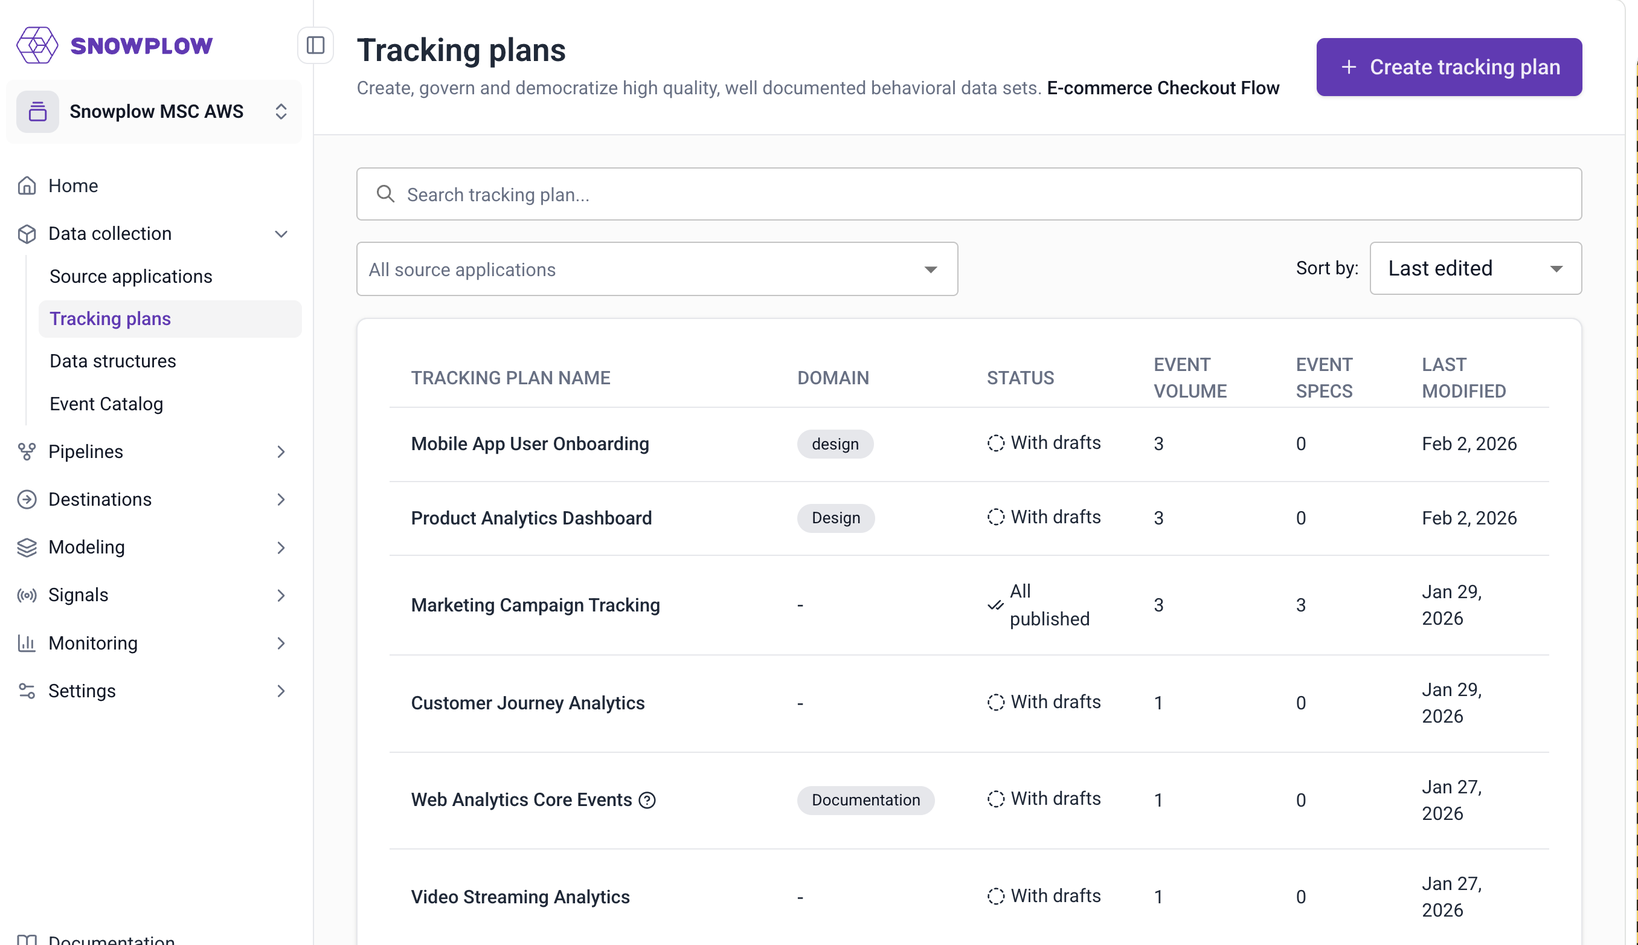
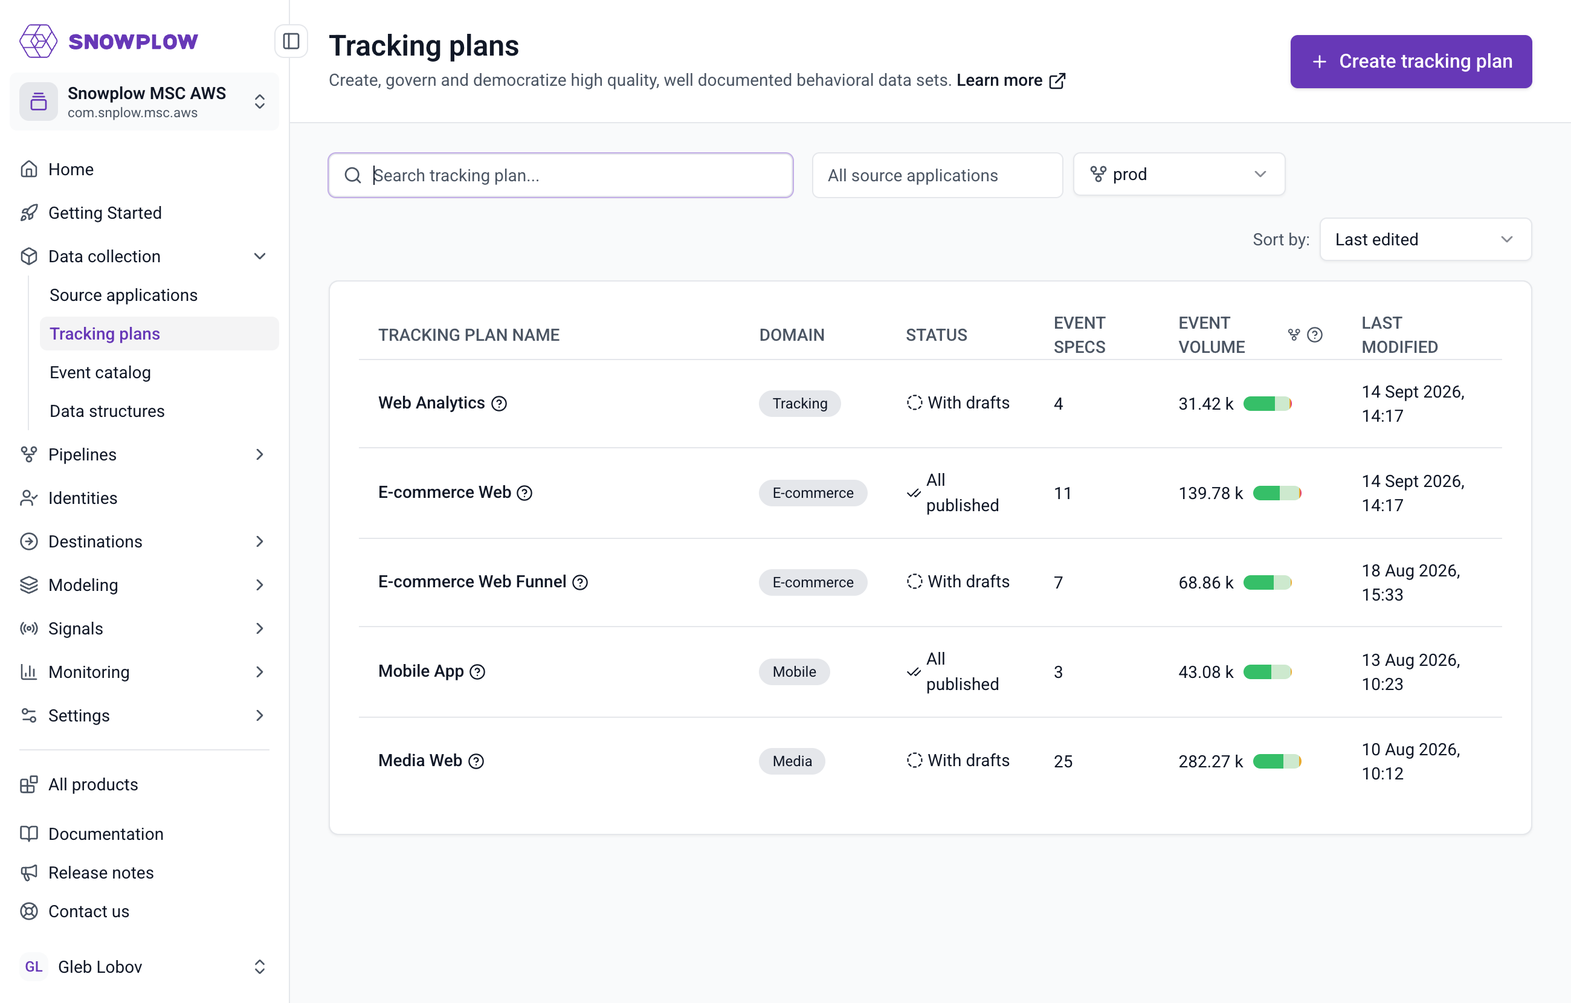
[DPS-XXXX] Event spec validation metrics

diff --git a/docs/event-studio/tracking-plans/data-quality/index.md b/docs/event-studio/tracking-plans/data-quality/index.md
@@ -1,0 +1,63 @@
+---
+title: "Monitor tracking plan data quality in Console"
+sidebar_label: "Data quality"
+sidebar_position: 4
+description: "See how many events matched each tracking plan and event specification over the last 30 days, and how many of them were valid, inferred, had violations, or failed."
+keywords: ["tracking plan data quality", "event specification validation", "event volume", "events with violations", "failed events", "tracking summary", "Console"]
+date: "2026-09-17"
+---
+
+Console shows the results of [event specification inference](/docs/event-studio/tracking-plans/event-specification-inference/index.md) and [event specification validation](/docs/event-studio/tracking-plans/event-specification-validation/index.md) next to your tracking plans and event specifications. Every event volume figure is split into valid events, inferred events, events with violations, and failed events. You can see how well an implementation matches its specification without querying your warehouse.
+
+Metrics cover the last 30 days for one pipeline at a time. Every view that shows them has a pipeline selector, which defaults to your production pipeline.
+
+## Understand the event categories
+
+Console sorts every event that the pipeline associated with a published event specification into one of four categories:
+
+| Category               | Meaning                                                                                                                                                                                                                                                                                                        |
+| ---------------------- | -------------------------------------------------------------------------------------------------------------------------------------------------------------------------------------------------------------------------------------------------------------------------------------------------------------- |
+| Valid events           | Events that arrived with an `event_specification` entity and passed validation                                                                                                                                                                                                                                 |
+| Inferred events        | Events that the pipeline matched to the specification by inference. Inferred events are valid events too, but the pipeline doesn't validate them                                                                                                                                                              |
+| Events with violations | Events that arrived with an `event_specification` entity, failed validation, and were loaded to your warehouse with an `event_specification_validation` entity attached                                                                                                                                                                                       |
+| Failed events          | Events attributed to the specification that ended up in [failed events](/docs/fundamentals/failed-events/index.md). This includes events with schema violations, and events that failed validation in a tracking plan that [sends them to failed events](/docs/event-studio/tracking-plans/event-specification-validation/index.md#send-invalid-events-to-failed-events) |
+
+Only events that arrive with an `event_specification` entity go through validation, so only they can end up as valid events or events with violations. Tracking code generated with [Snowtype](/docs/event-studio/implement-tracking/index.md) attaches this entity for you. Events without it can only be matched by inference.
+
+The total volume is the sum of the four categories. Where Console shows a bar next to a volume, each segment is one category. Hover over the bar to see the count for each category.
+
+Failed events counts come from your [data quality dashboard](/docs/monitoring/index.md), not from the Console API. They are available when the selected pipeline loads failed events into your warehouse, the data quality dashboard is connected to that pipeline, and you have permission to view it. Otherwise the failed events category shows N/A, volumes exclude failed events, and a warning icon next to the volume explains why.
+
+## View data quality for a tracking plan
+
+Open a tracking plan to see its **Data quality** panel. The chart shows the total number of events across all event specifications in the plan, split by category, with the share and count of each. Click **View details** to open the data quality dashboard for the selected pipeline, or the failed events page when the dashboard isn't connected.
+
+![E-commerce Web tracking plan page with a Data quality panel showing a donut chart of 139.78k total events on the prod pipeline over the last 30 days, split into valid, inferred, violations, and failed events, above an event specifications table with a volume bar per specification](images/tracking-plan-data-quality.png)
+
+The event specifications table shows the same breakdown per event specification in its **Volume** column. The **Last seen** column shows the most recent event for the specification, whether it was valid or failed.
+
+The **Data quality rules** button in the page header decides whether events that fail validation count as events with violations or as failed events. See [Send invalid events to failed events](/docs/event-studio/tracking-plans/event-specification-validation/index.md#send-invalid-events-to-failed-events).
+
+## Compare tracking plans and event specifications
+
+The **Tracking plans** list shows the volume breakdown for every tracking plan in its **Event volume** column. The [Event Catalog](/docs/event-studio/event-catalog/index.md) shows it for every event specification across all tracking plans in its **Volume** column. Both views have a pipeline selector next to the filters.
+
+![Tracking plans list with a pipeline selector set to prod and an Event volume column showing a count and a colored bar for each tracking plan](images/tracking-plans-list.png)
+
+![Event Catalog filtered to published event specifications and sorted by tracking plan, with a pipeline selector and a Volume column showing a count and a colored bar for each event specification](images/event-catalog-volume.png)
+
+## Track specification versions and application IDs
+
+Each event specification has a **Tracking summary** tab that breaks the metrics down by specification version and application ID. Use it to check that a new version has reached all applications, or that an application still sends an old version.
+
+![Tracking summary tab of the Add to cart event specification listing versions 1 and 2, the app IDs that sent each version with green, yellow, and gray status badges, the last seen date, and a volume bar](images/event-specification-tracking-summary.png)
+
+Each row is one version of the specification that the pipeline saw events for in the last 30 days. The **App ID** column lists the application IDs that sent those events, with a status for each:
+
+| Status         | Meaning                                                                                                         |
+| -------------- | --------------------------------------------------------------------------------------------------------------- |
+| Green check    | The app ID belongs to a source application of this version and sent events                                      |
+| Yellow warning | The app ID sent events, but doesn't belong to any source application of this version                            |
+| Gray minus     | The app ID belongs to a source application of this version, but didn't send events in the last 30 days          |
+
+A yellow status usually means that an application tracks the event without being listed in the specification. Add its [source application](/docs/event-studio/source-applications/index.md) to the specification, or remove the tracking from that application.

diff --git a/docs/event-studio/tracking-plans/create-and-manage/index.md b/docs/event-studio/tracking-plans/create-and-manage/index.md
@@ -9,7 +9,7 @@ keywords: ["tracking plan UI", "Console UI", "event specifications UI", "source 
 
 To create a new tracking plan, navigate to the "Tracking plans" section from the navigation bar and click the "Create tracking plan" button.
 
-![Tracking plans list page showing six tracking plans with their domain, status, event volume, event spec count, and last modified date, with a "+ Create tracking plan" button in the top right](images/create-tracking-plan-v2.png)
+![Console with the Data collection section of the sidebar expanded and Tracking plans selected, showing five tracking plans with their domain, status, event spec count, event volume with a colored bar, and last modified date, with a "+ Create tracking plan" button in the top right](images/create-tracking-plan-v2.png)
 
 A modal will appear on the page, giving you the possibility to quickly create a tracking plan by using one of the existing templates or create one from scratch.
 
@@ -33,17 +33,18 @@ When clicking on an event specification row, a page will allow you to enter addi
 
 The breadcrumb navigation allows you to quickly navigate to the tracking plan overview as well as to the list of tracking plans. Alternatively, you can access the list of available tracking plans by clicking `Tracking plans` prominently displayed in the navigation bar on the left.
 
-In the image below, you can see an example of a tracking plan. It not only provides an overview of all the event specifications but also allows you to access three important pieces of functionality.
+In the image below, you can see an example of a tracking plan. It provides an overview of all the event specifications and of the [data quality](/docs/event-studio/tracking-plans/data-quality/index.md) of the plan over the last 30 days, and gives access to the following functionality:
 
 - **Share**; allow other members of your organization to access the tracking plan
 - **Subscribe**; receive notifications of any changes in the tracking plan
+- **Data quality rules**; choose whether events that fail [validation](/docs/event-studio/tracking-plans/event-specification-validation/index.md#send-invalid-events-to-failed-events) are loaded to your warehouse marked as violations, or sent to failed events
 - **Implement tracking**; automatically generate the code for your tracking plan to be included in your application (to learn more visit [Code Generation - automatically generate code for Snowplow tracking SDKs](/docs/event-studio/implement-tracking/index.md))
 
 :::note
 Sharing and subscribing is only available for users registered in Snowplow Console.
 :::
 
-![E-commerce Web tracking plan overview showing general information, E-commerce domain ownership, and an event specifications table with four draft events (Add to cart, Checkout step, Internal promotion click, Internal promotion view) all using the snowplow_ecommerce_action 1-0-2 data structure](images/tracking-plan-overview.png)
+![E-commerce Web tracking plan overview showing general information with owner and domain, a Data quality panel with a donut chart of valid, inferred, violations, and failed events, and an event specifications table with published events such as Add to cart and Checkout Step using the snowplow_ecommerce_action 1-0-2 data structure](images/tracking-plan-overview.png)
 
 ![Add to cart event specification page showing event description, four tracked application IDs, the snowplow_ecommerce_action 1-0-2 data structure with a "type" property set to "add_to_cart", and product and cart entity data structures](images/event-specification-details.png)
 

diff --git a/release-notes/event-specification-validation-results-in-console/index.md b/release-notes/event-specification-validation-results-in-console/index.md
@@ -1,0 +1,28 @@
+---
+title: "Event specification validation results in Console"
+description: "Console now shows how many events matched each tracking plan and event specification over the last 30 days, split into valid, inferred, violations, and failed events, with a per-version breakdown for each event specification."
+date: "2026-09-18"
+category:
+  - "Product news"
+components:
+  - "Event Studio"
+  - "Console"
+---
+Event specification validation results are now visible in Console. Until now, you had to look for them in your warehouse. Console shows how many events matched each tracking plan and event specification, and how many of them passed or failed validation, next to the tracking plans and event specifications themselves.
+
+## Validation results in Console
+
+Every event volume figure in Event Studio is split into four categories: valid events, inferred events, events with violations, and failed events. Metrics cover the last 30 days, and you can switch between pipelines.
+
+<img src={require('./images/data-quality-panel.png').default} alt="Data quality panel of a tracking plan showing a donut chart of 139.78k total events over the last 30 days on the prod pipeline, split into valid events, inferred events, events with violations, and failed events, with a View details button" style={{maxWidth: '496px', width: '100%'}} />
+
+* **Tracking plan page**: a new **Data quality** panel shows the breakdown for the whole plan, with a link to the data quality dashboard
+* **Tracking plans list and Event Catalog**: the volume column shows the breakdown for each tracking plan and event specification
+* **Tracking summary tab**: each event specification has a new tab with metrics per specification version and application ID. You can see which applications send which version, and whether an application sends the event without being listed in the specification
+
+Failed events counts require the data quality dashboard to be connected to the selected pipeline. Whether an event that fails validation counts as a violation or as a failed event depends on the tracking plan's [data quality rules](/docs/event-studio/tracking-plans/event-specification-validation/#send-invalid-events-to-failed-events).
+
+## Documentation
+
+* [Monitor tracking plan data quality in Console](/docs/event-studio/tracking-plans/data-quality/)
+* [Event specification validation](/docs/event-studio/tracking-plans/event-specification-validation/)

diff --git a/docs/event-studio/event-catalog/index.md b/docs/event-studio/event-catalog/index.md
@@ -20,7 +20,7 @@ When your organization has multiple tracking plans across different teams and do
 
 Navigate to **Event Catalog** in the main navigation.
 
-![Event Catalog page listing six event specifications across multiple tracking plans, showing their entities, event volume, last seen date, and status (Draft or Published), with a "Create event specification" button in the top right](images/event-catalog-overview.png)
+![Event Catalog page listing published event specifications from the E-commerce Web tracking plan, showing their entities, tracking plan, event volume with a colored bar, last seen date, and status, with a pipeline selector and a "Create event specification" button in the top right](images/event-catalog-overview.png)
 
 ## Browse event specifications
 
@@ -31,8 +31,8 @@ The Event Catalog provides a comprehensive list of all event specifications defi
 | Event specification name | The name and schema identifier of the event specification                  |
 | Entities                 | The [entities](/docs/fundamentals/entities/index.md) attached to the event |
 | Tracking plan            | The tracking plan containing the event specification                       |
-| Volume                   | The number of events collected                                             |
-| Last seen                | When the event was last received                                           |
+| Volume                   | The number of events collected over the last 30 days on the selected pipeline, split into valid, inferred, violations, and failed events. See [Monitor tracking plan data quality in Console](/docs/event-studio/tracking-plans/data-quality/index.md) |
+| Last seen                | When the event was last received on the selected pipeline                  |
 | Status                   | The status of the event specification                                      |
 
 ### Filter and search
@@ -42,6 +42,7 @@ You can filter and search the list to find specific event specifications. Use th
 - **Search**: enter text to filter by event specification name
 - **Status filter**: show all specifications or filter by Draft or Published status
 - **Entity filter**: filter specifications by attached entities
+- **Pipeline selector**: choose the pipeline for the volume and last seen columns. It defaults to your production pipeline
 
 ## Create event specifications
 

diff --git a/docs/event-studio/tracking-plans/event-specification-validation/index.md b/docs/event-studio/tracking-plans/event-specification-validation/index.md
@@ -26,6 +26,8 @@ In your warehouse, three cases are possible:
 
 These cases assume the default **Data quality rules** setting. If the tracking plan [sends invalid events to failed events](#send-invalid-events-to-failed-events), events that fail validation don't reach your warehouse `events` table.
 
+Console shows how many events fall into each of these cases for every tracking plan and event specification, without a warehouse query. See [Monitor tracking plan data quality in Console](/docs/event-studio/tracking-plans/data-quality/index.md).
+
 ## Validation entity
 
 The pipeline attaches an `event_specification_validation` entity to events that fail validation. It also attaches one when it cannot find the declared specification, either because it was never published or because its instructions are not valid, which stops the pipeline from loading it.
@@ -114,6 +116,6 @@ The default is **Send to valid events and mark as violation**, which keeps those
 
 The setting applies to all event specifications in the tracking plan and all their versions. Changes take effect within a few minutes, with no new specification version to publish and no tracking code to redeploy.
 
-These events appear in failed events as enrichment failures from the event specification enrichment. They keep both the `event_specification` and `event_specification_validation` entities, so you can inspect why each event failed.
+These events appear in failed events as enrichment failures from the event specification enrichment. They keep both the `event_specification` and `event_specification_validation` entities, so you can inspect why each event failed. In Console, they count as [failed events](/docs/event-studio/tracking-plans/data-quality/index.md#understand-the-event-categories) rather than events with violations.
 
 If the pipeline cannot find the specification an event declares, that event stays with your enriched events, even when the tracking plan sends invalid events to failed events.

diff --git a/docs/event-studio/tracking-plans/index.md b/docs/event-studio/tracking-plans/index.md
@@ -24,7 +24,7 @@ Event specifications bridge the gap between tracking design and data collection:
 
 - **Design phase**: you document your tracking requirements by creating event specifications that capture both technical structure and business context
 - **Implementation phase**: developers use these specifications to instrument tracking code, either manually or through code generation within the Snowplow Console or using tools like Snowtype. Snowtype generated code ensures type-safety and alignment with specifications, reducing implementation errors and accelerating development time
-- **Observability phase**: monitor event specification usage directly in the Console. See the total number of events collected for each specification and when each was last seen. This visibility helps you confirm implementations are live, identify unused specifications, and understand event volume patterns across your tracking plan
+- **Observability phase**: monitor event specification usage directly in Console. See the total number of events collected for each specification, when each was last seen, and how many of those events were valid, inferred, had violations, or failed. This helps you confirm implementations are live, identify unused specifications, and find implementation problems. See [Monitor tracking plan data quality in Console](/docs/event-studio/tracking-plans/data-quality/index.md)
 - **Data modeling phase**: event specifications enable automatically generated dbt models that transform atomic events into analysis-ready tables. These models understand the structure defined in your specifications, creating consistent table schemas and joining related [entities](/docs/fundamentals/entities/index.md). As you update specifications, corresponding data models can be regenerated, keeping your warehouse transformations synchronized with your tracking design
 
 ## Elements of a Tracking Plan

diff --git a/docs/event-studio/tracking-plans/event-specification-inference/index.md b/docs/event-studio/tracking-plans/event-specification-inference/index.md
@@ -15,7 +15,7 @@ Each event specification uses an explicit publishing model, replacing the previo
 
 - **Draft**: the specification is being edited and is not yet active in the pipeline, so no inference occurs there. [Development environments](/docs/testing/snowplow-micro/console/index.md#validate-event-specifications) do match events against drafts, so you can test a specification before publishing it.
 - **Publishing**: a transitional state, lasting a few minutes, while the pipeline propagates the specification. You do not need to take any action during this phase.
-- **Published**: the specification is active. The pipeline matches incoming events against it, attaches an `event_specification` entity to it, and surfaces volume data and "last seen" timestamps in the Console.
+- **Published**: the specification is active. The pipeline matches incoming events against it, attaches an `event_specification` entity to it, and surfaces [volume data and "last seen" timestamps](/docs/event-studio/tracking-plans/data-quality/index.md) in the Console.
 
 The tracking plan list view reflects the status of the specifications it contains. A tracking plan shows **Published** if all of its specifications are published, and **With Drafts** if any specification remains in draft.
 

diff --git a/docs/event-studio/tracking-plans/event-specifications/index.md b/docs/event-studio/tracking-plans/event-specifications/index.md
@@ -35,7 +35,13 @@ To add more information or modify an existing event specification, follow these 
 2. Select the desired event specification
 3. This action will open an overview of the selected event specification containing the details that have been added to date
 
-This interface is divided into focused sections; explore each section below for more details.
+The event specification page has three tabs:
+
+- **Details**: the sections described below
+- **Tracking summary**: event volumes per specification version and application ID, see [Monitor tracking plan data quality in Console](/docs/event-studio/tracking-plans/data-quality/index.md#track-specification-versions-and-application-ids)
+- **History**: the list of versions of the specification, with the changes between any two versions
+
+The **Details** tab is divided into focused sections; explore each section below for more details.
 
 ![Product Added to Cart event specification showing event description, source application, the cart_action 1-0-0 data structure with a type property required to be "add", user and product entity data structures, and an Add to Cart button trigger](images/event-specification-overview.png)
 

diff --git a/docs/event-studio/tracking-plans/templates/index.md b/docs/event-studio/tracking-plans/templates/index.md
@@ -2,7 +2,7 @@
 title: "Tracking plan templates"
 sidebar_label: "Templates"
 date: "2024-06-17"
-sidebar_position: 4
+sidebar_position: 5
 description: "Pre-defined tracking plan templates for Base Web, Base Mobile, Ecommerce, and Media tracking with included event specifications and implementation guidance."
 keywords: ["tracking plan templates", "Base Web template", "Base Mobile template", "ecommerce template", "media tracking template"]
 ---
